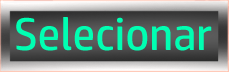
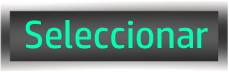
text fix

Changed region(s): [[0.0611, 0.2222, 0.9476, 0.7222], [0.0, 0.0, 1.0, 1.0]]

diff --git a/Tankun-Mayhem/Scenes/GameScene.js b/Tankun-Mayhem/Scenes/GameScene.js
@@ -41,7 +41,7 @@
 	{
 		this.Hit_tank2.play();
 		score2+=10;
-		this.score2Text.setText('Score: ' + score2);
+		this.score2Text.setText('Puntuación: ' + score2);
 		bullet.destroy();
 	}
 	
@@ -50,7 +50,7 @@
 		
 		this.Hit_tank.play();
 		score1+=10;
-		this.score1Text.setText('Score: ' + score1);
+		this.score1Text.setText('Puntuación' + score1);
 		bullet.destroy();
 	}
 	
@@ -242,8 +242,8 @@ class GameScene extends Phaser.Scene
 		avion.setVelocity(0,-250);
 		
 		
-		this.score1Text = this.add.text(85, 635, 'score: 0', { fontSize: '32px', fill: '#03d92d' });
-		this.score2Text = this.add.text(1370,635, 'score: 0', { fontSize: '32px', fill: '#03d92d' });
+		this.score1Text = this.add.text(35, 635, 'Puntuación: 0', { fontSize: '32px', fill: '#03d92d' });
+		this.score2Text = this.add.text(1310,635, 'Puntuación: 0', { fontSize: '32px', fill: '#03d92d' });
 		this.startTime = new Date().getSeconds() + new Date().getMinutes()*60 + new Date().getHours()*3600;
 		this.timerText = this.add.text(780, 635,'', { fontSize: '32px', fill: '#03d92d' });
 			
